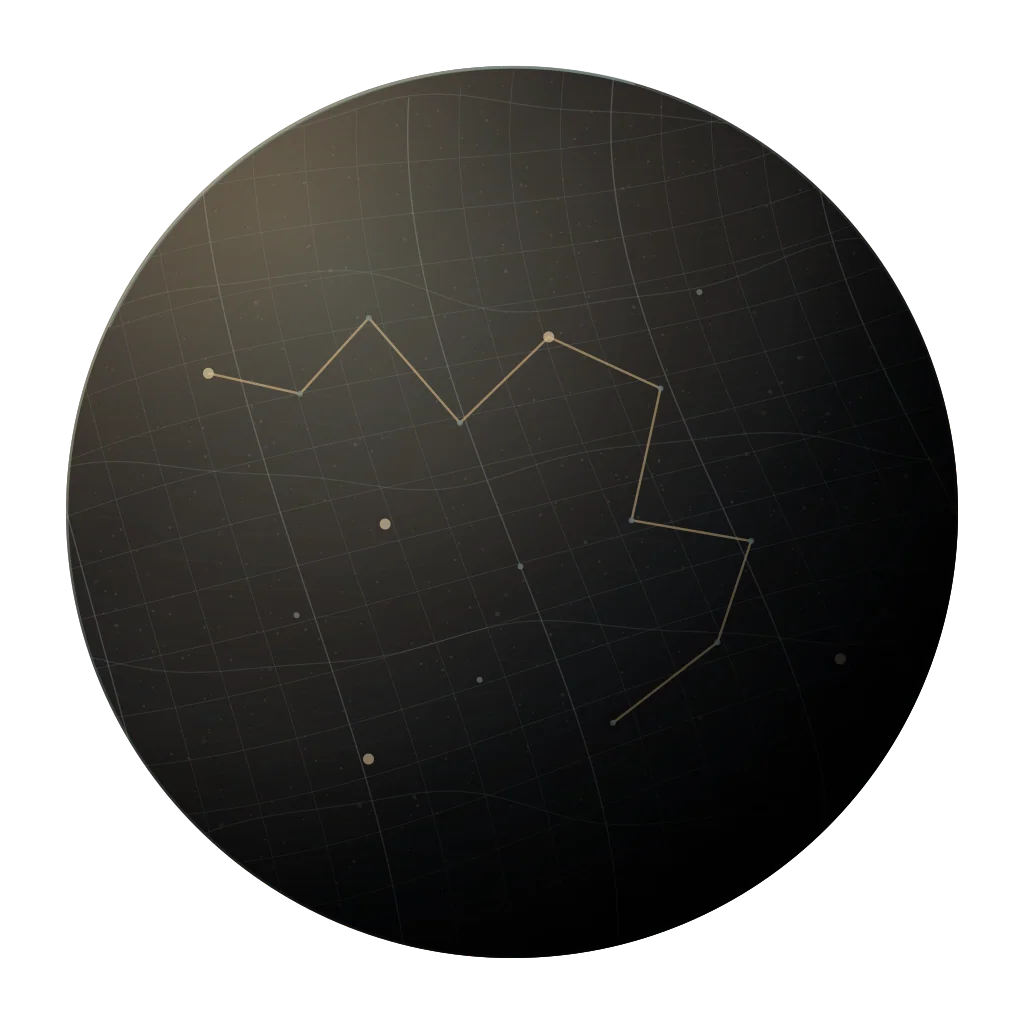
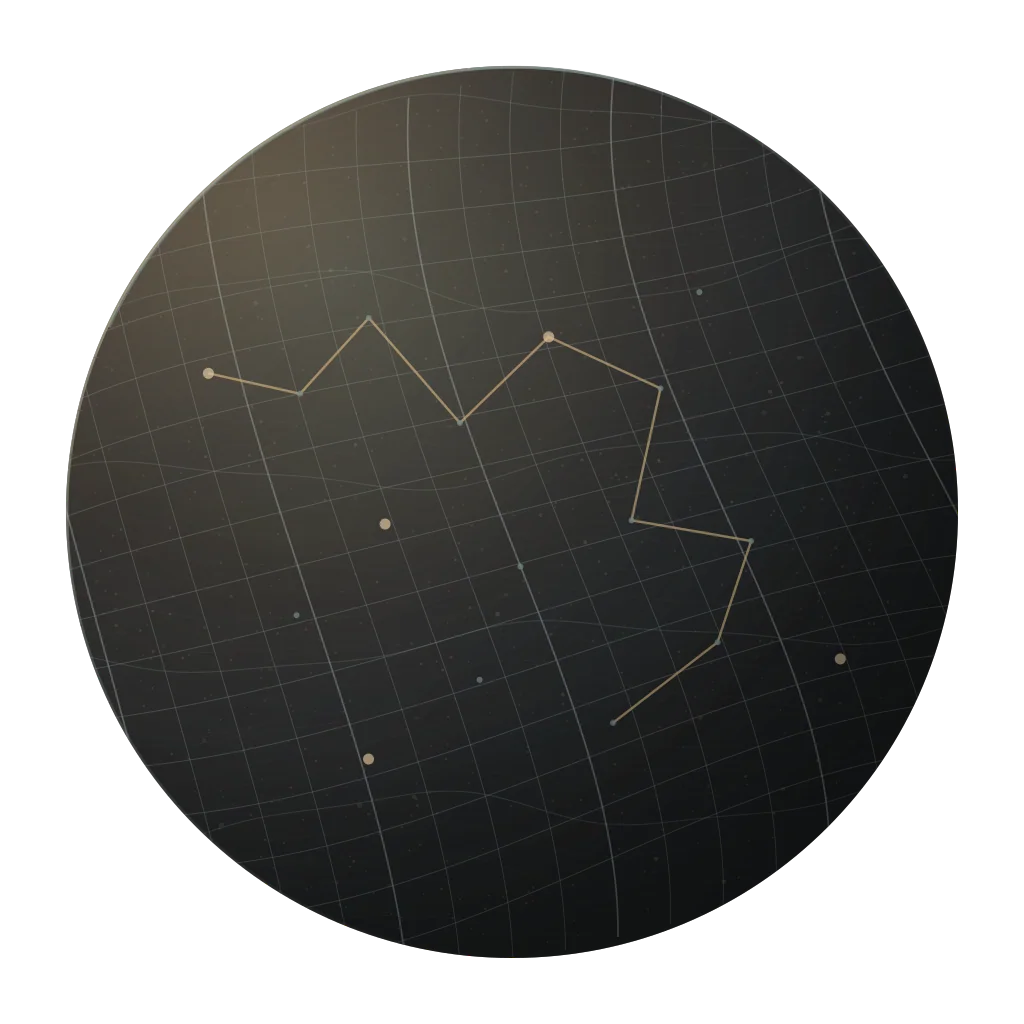
feat: projectExplorer bileşen ve generated showroom planet assets eklendi

diff --git a/platform/components/Home/ProjectExplorer.module.css b/platform/components/Home/ProjectExplorer.module.css
@@ -14,7 +14,7 @@
 .stage { position: sticky; top: 0; height: 100svh; min-height: 650px; overflow: clip; isolation: isolate; background: #100d0a; }
 .studio, .studioField { position: absolute; inset: 0; }
 .studio { z-index: -2; pointer-events: none; }
-.studioField img { object-fit: cover; object-position: center; }
+.studioField img { object-fit: cover; object-position: center; filter: brightness(1.28); }
 .studioField { transform-origin: 48% 50%; }
 .shade { position: absolute; z-index: -1; inset: 0; pointer-events: none; background: linear-gradient(90deg, #100d0aeb 0%, #100d0aa4 27%, transparent 59%), linear-gradient(0deg, #100d0af0 0%, transparent 20%, transparent 78%, #100d0a91 100%); }
 .intro { position: absolute; left: 5.4vw; top: clamp(132px, 19svh, 230px); max-width: 430px; z-index: 4; pointer-events: none; }
@@ -27,11 +27,11 @@
 .origin img { display: block; width: 56%; height: 56%; object-fit: contain; filter: brightness(0) invert(1) sepia(.19); }
 .orbit { position: absolute; inset: 0; z-index: 1; pointer-events: none; transform-origin: center; }
 .orbitLines { position: absolute; inset: 0; width: 100%; height: 100%; fill: none; stroke: #d6ab6b; stroke-width: .6; opacity: .27; transform-origin: center; pointer-events: none; }
-.specimen { position: absolute; left: 50%; top: 50%; width: clamp(80px, 8.4vw, 124px); text-align: center; }
+.specimen { position: absolute; left: 50%; top: 50%; width: clamp(90px, 9.7vw, 146px); text-align: center; }
 .specimenOrb { display: block; position: relative; width: 100%; aspect-ratio: 1; padding: 0; border: 1px solid #d6ab6b65; border-radius: 50%; overflow: hidden; background: #121416; box-shadow: 0 12px 28px #07050466; pointer-events: auto; cursor: pointer; transform-origin: center; }
 .planetSurface { position: absolute; inset: 0; display: block; border-radius: 50%; }
-.planetSurface img { object-fit: cover; object-position: center; border-radius: 50%; }
-.specimenOrb::after { content: ''; position: absolute; inset: 0; z-index: 1; border-radius: 50%; pointer-events: none; background: radial-gradient(circle at 25% 20%, #f3d5a52b 0%, transparent 43%), linear-gradient(105deg, transparent 34%, #07080955 63%, #020405c9 100%); box-shadow: inset 2px 2px 5px #f6c9883d, inset -12px -8px 24px #020305aa; }
+.planetSurface img { object-fit: cover; object-position: center; border-radius: 50%; filter: brightness(1.4) contrast(1.06); }
+.specimenOrb::after { content: ''; position: absolute; inset: 0; z-index: 1; border-radius: 50%; pointer-events: none; background: radial-gradient(circle at 25% 20%, #f3d5a52b 0%, transparent 43%), linear-gradient(105deg, transparent 34%, #07080936 63%, #0204058a 100%); box-shadow: inset 2px 2px 5px #f6c9883d, inset -12px -8px 24px #020305aa; }
 .specimenOrb:hover { outline: 1px solid #f6d18f; outline-offset: 4px; }
 .specimenName { display: block; min-width: 82px; margin: 10px 0 0 50%; color: #efe1c8; font-size: 13px; line-height: 1.2; text-shadow: 0 2px 8px #000; pointer-events: none; white-space: normal; transform: translateX(-50%); }
 .specimenName span { color: #d6ab6b; font-size: 10px; letter-spacing: .13em; }

diff --git a/platform/components/Home/ProjectExplorer.tsx b/platform/components/Home/ProjectExplorer.tsx
@@ -58,9 +58,9 @@ function Specimen({ product, index, count, progress, onSelect, reducedMotion, in
   const scale = useTransform(progress, value => {
     const focus = staticScene() ? 0 : focusAt(value, index, count)
     const depth = 1 + Math.sin(orbitalAngle(value)) * 0.16
-    return depth * (1 - focus) + focus * 16
+    return depth * (1 - focus) + focus * 14.5
   })
-  const rotate = useTransform(progress, value => staticScene() ? 0 : value * 230 + index * 8)
+  const rotate = useTransform(progress, value => staticScene() ? 0 : value * 420 + index * 12)
   const opacity = useTransform(progress, value => {
     if (staticScene()) {return 1}
     const otherFocus = nearestFocusAt(value, count)

diff --git a/platform/next-env.d.ts b/platform/next-env.d.ts
@@ -1,7 +1,7 @@
 /// <reference types="next" />
 /// <reference types="next/image-types/global" />
-import "./.next/types/routes.d.ts";
-import "./.next/types/root-params.d.ts";
+import "./.next/dev/types/routes.d.ts";
+import "./.next/dev/types/root-params.d.ts";
 
 // NOTE: This file should not be edited
 // see https://nextjs.org/docs/pages/api-reference/config/typescript for more information.
